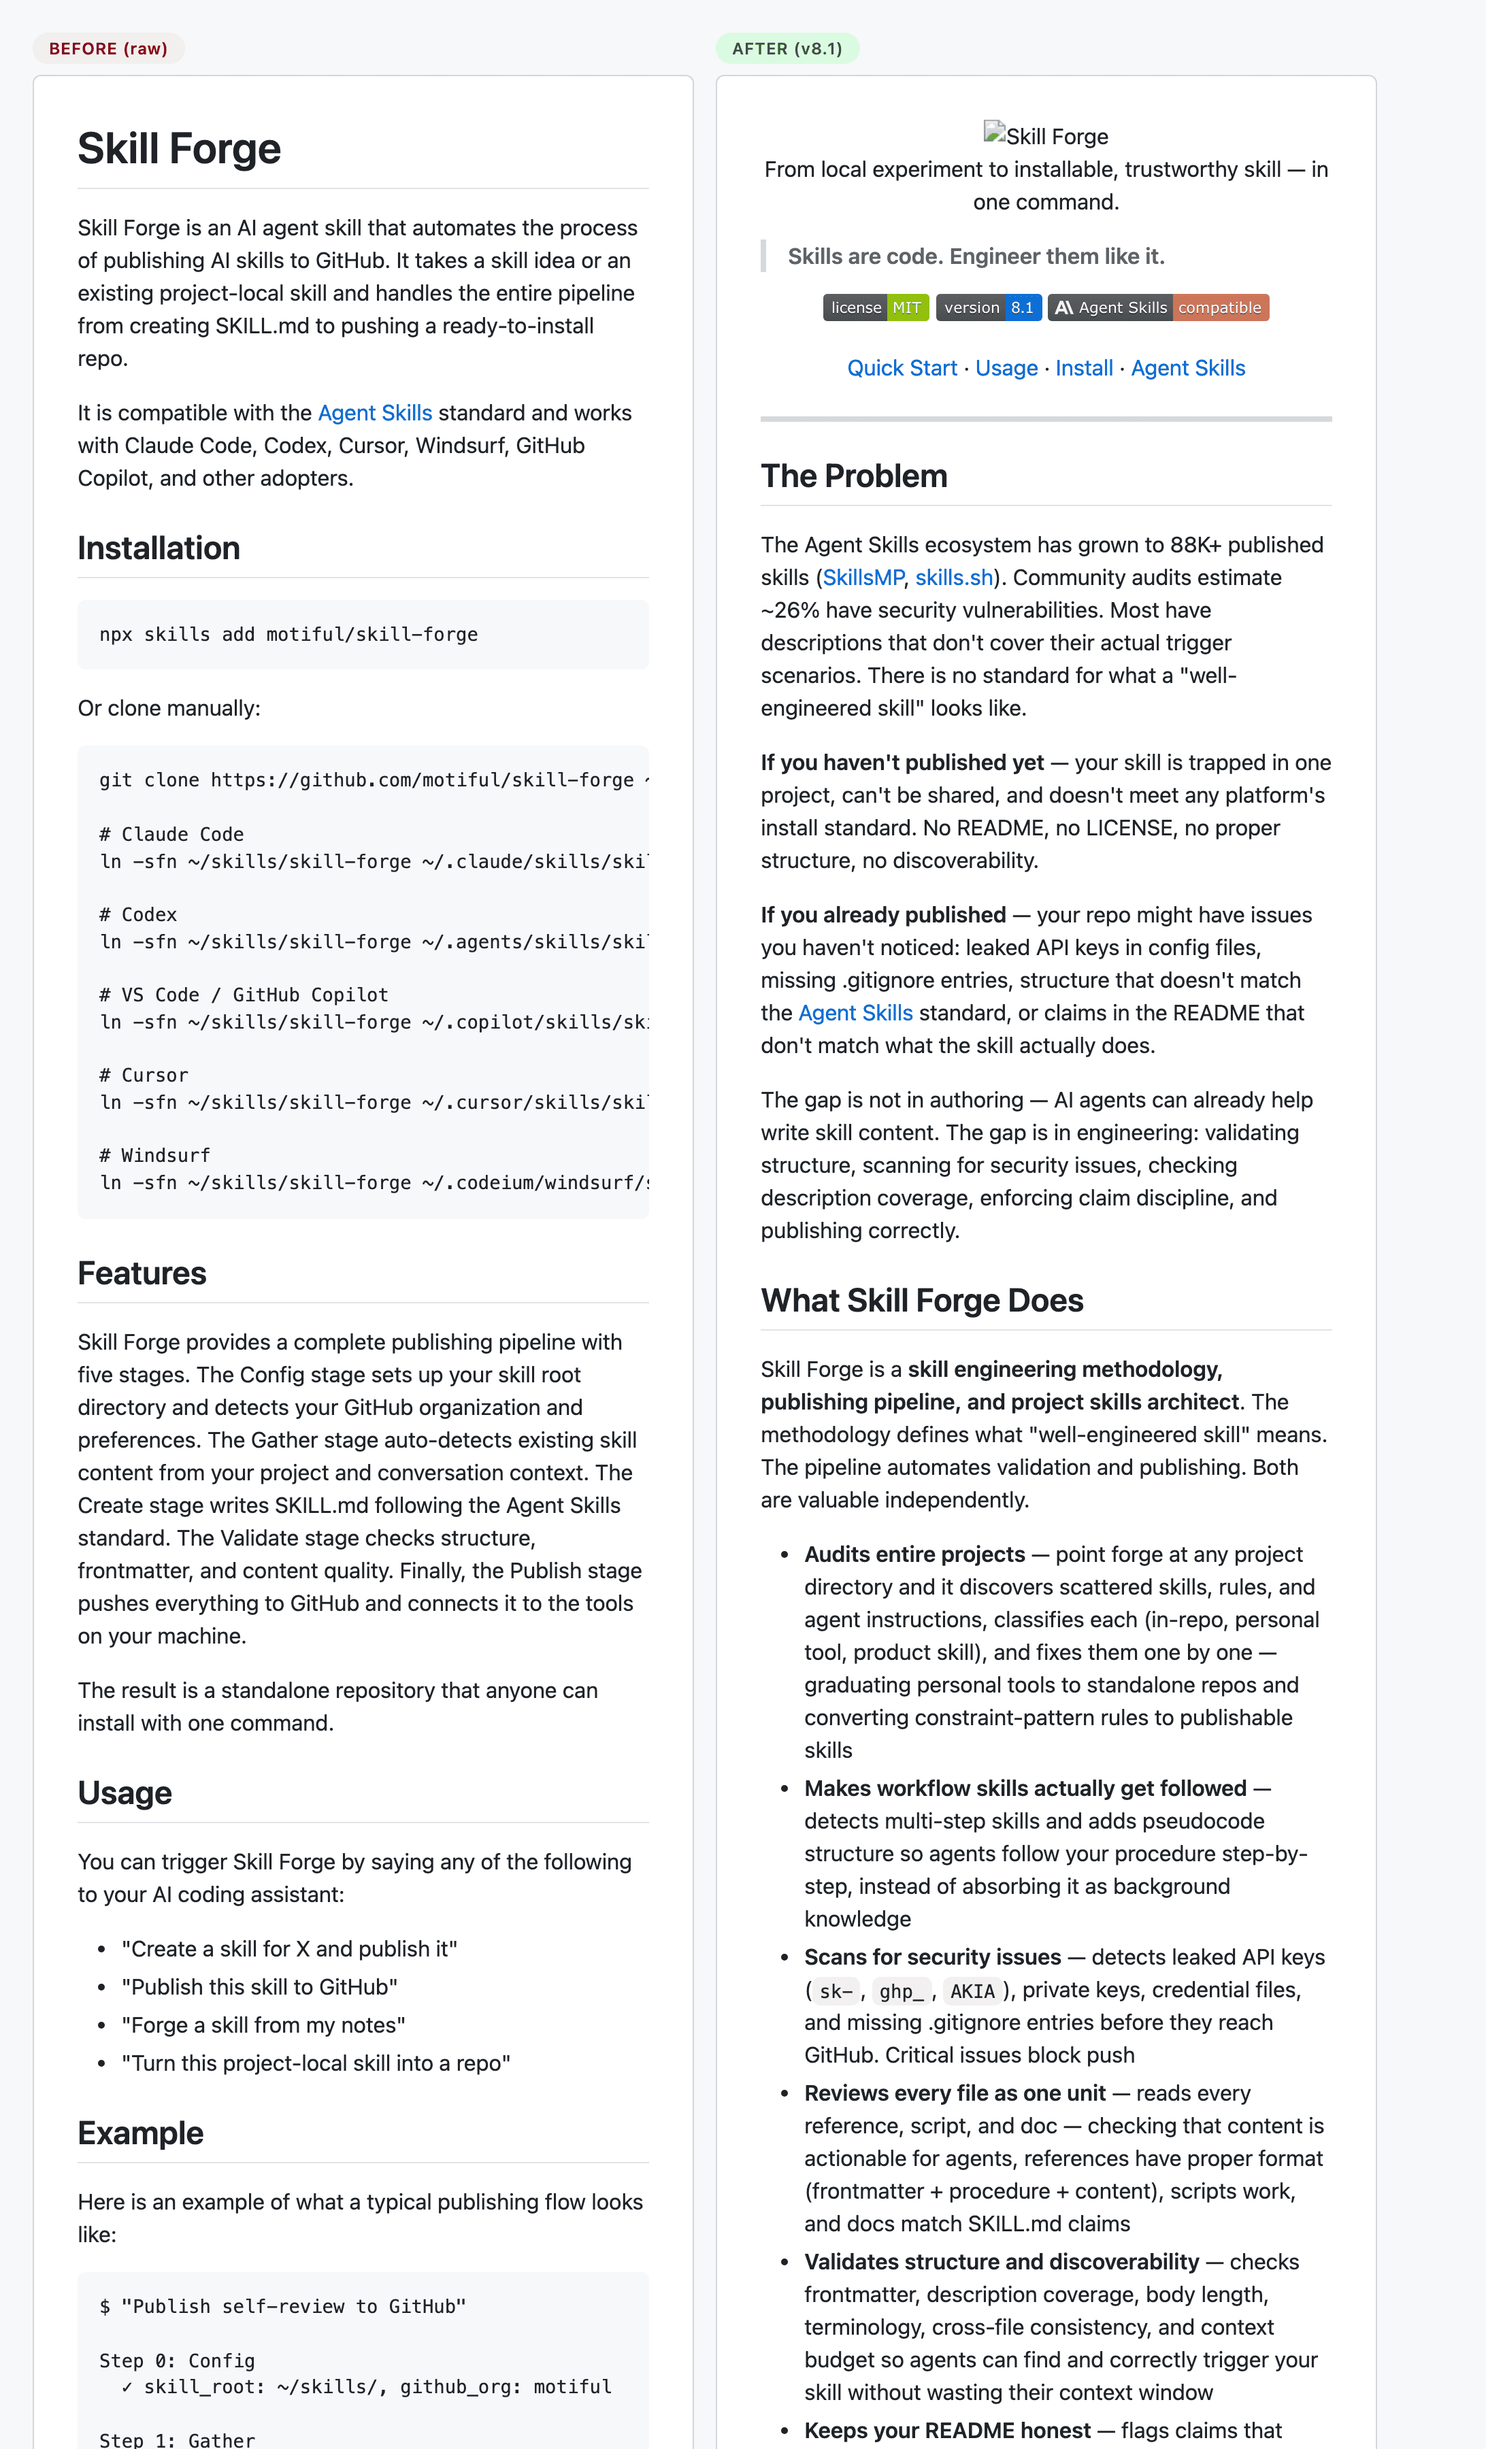
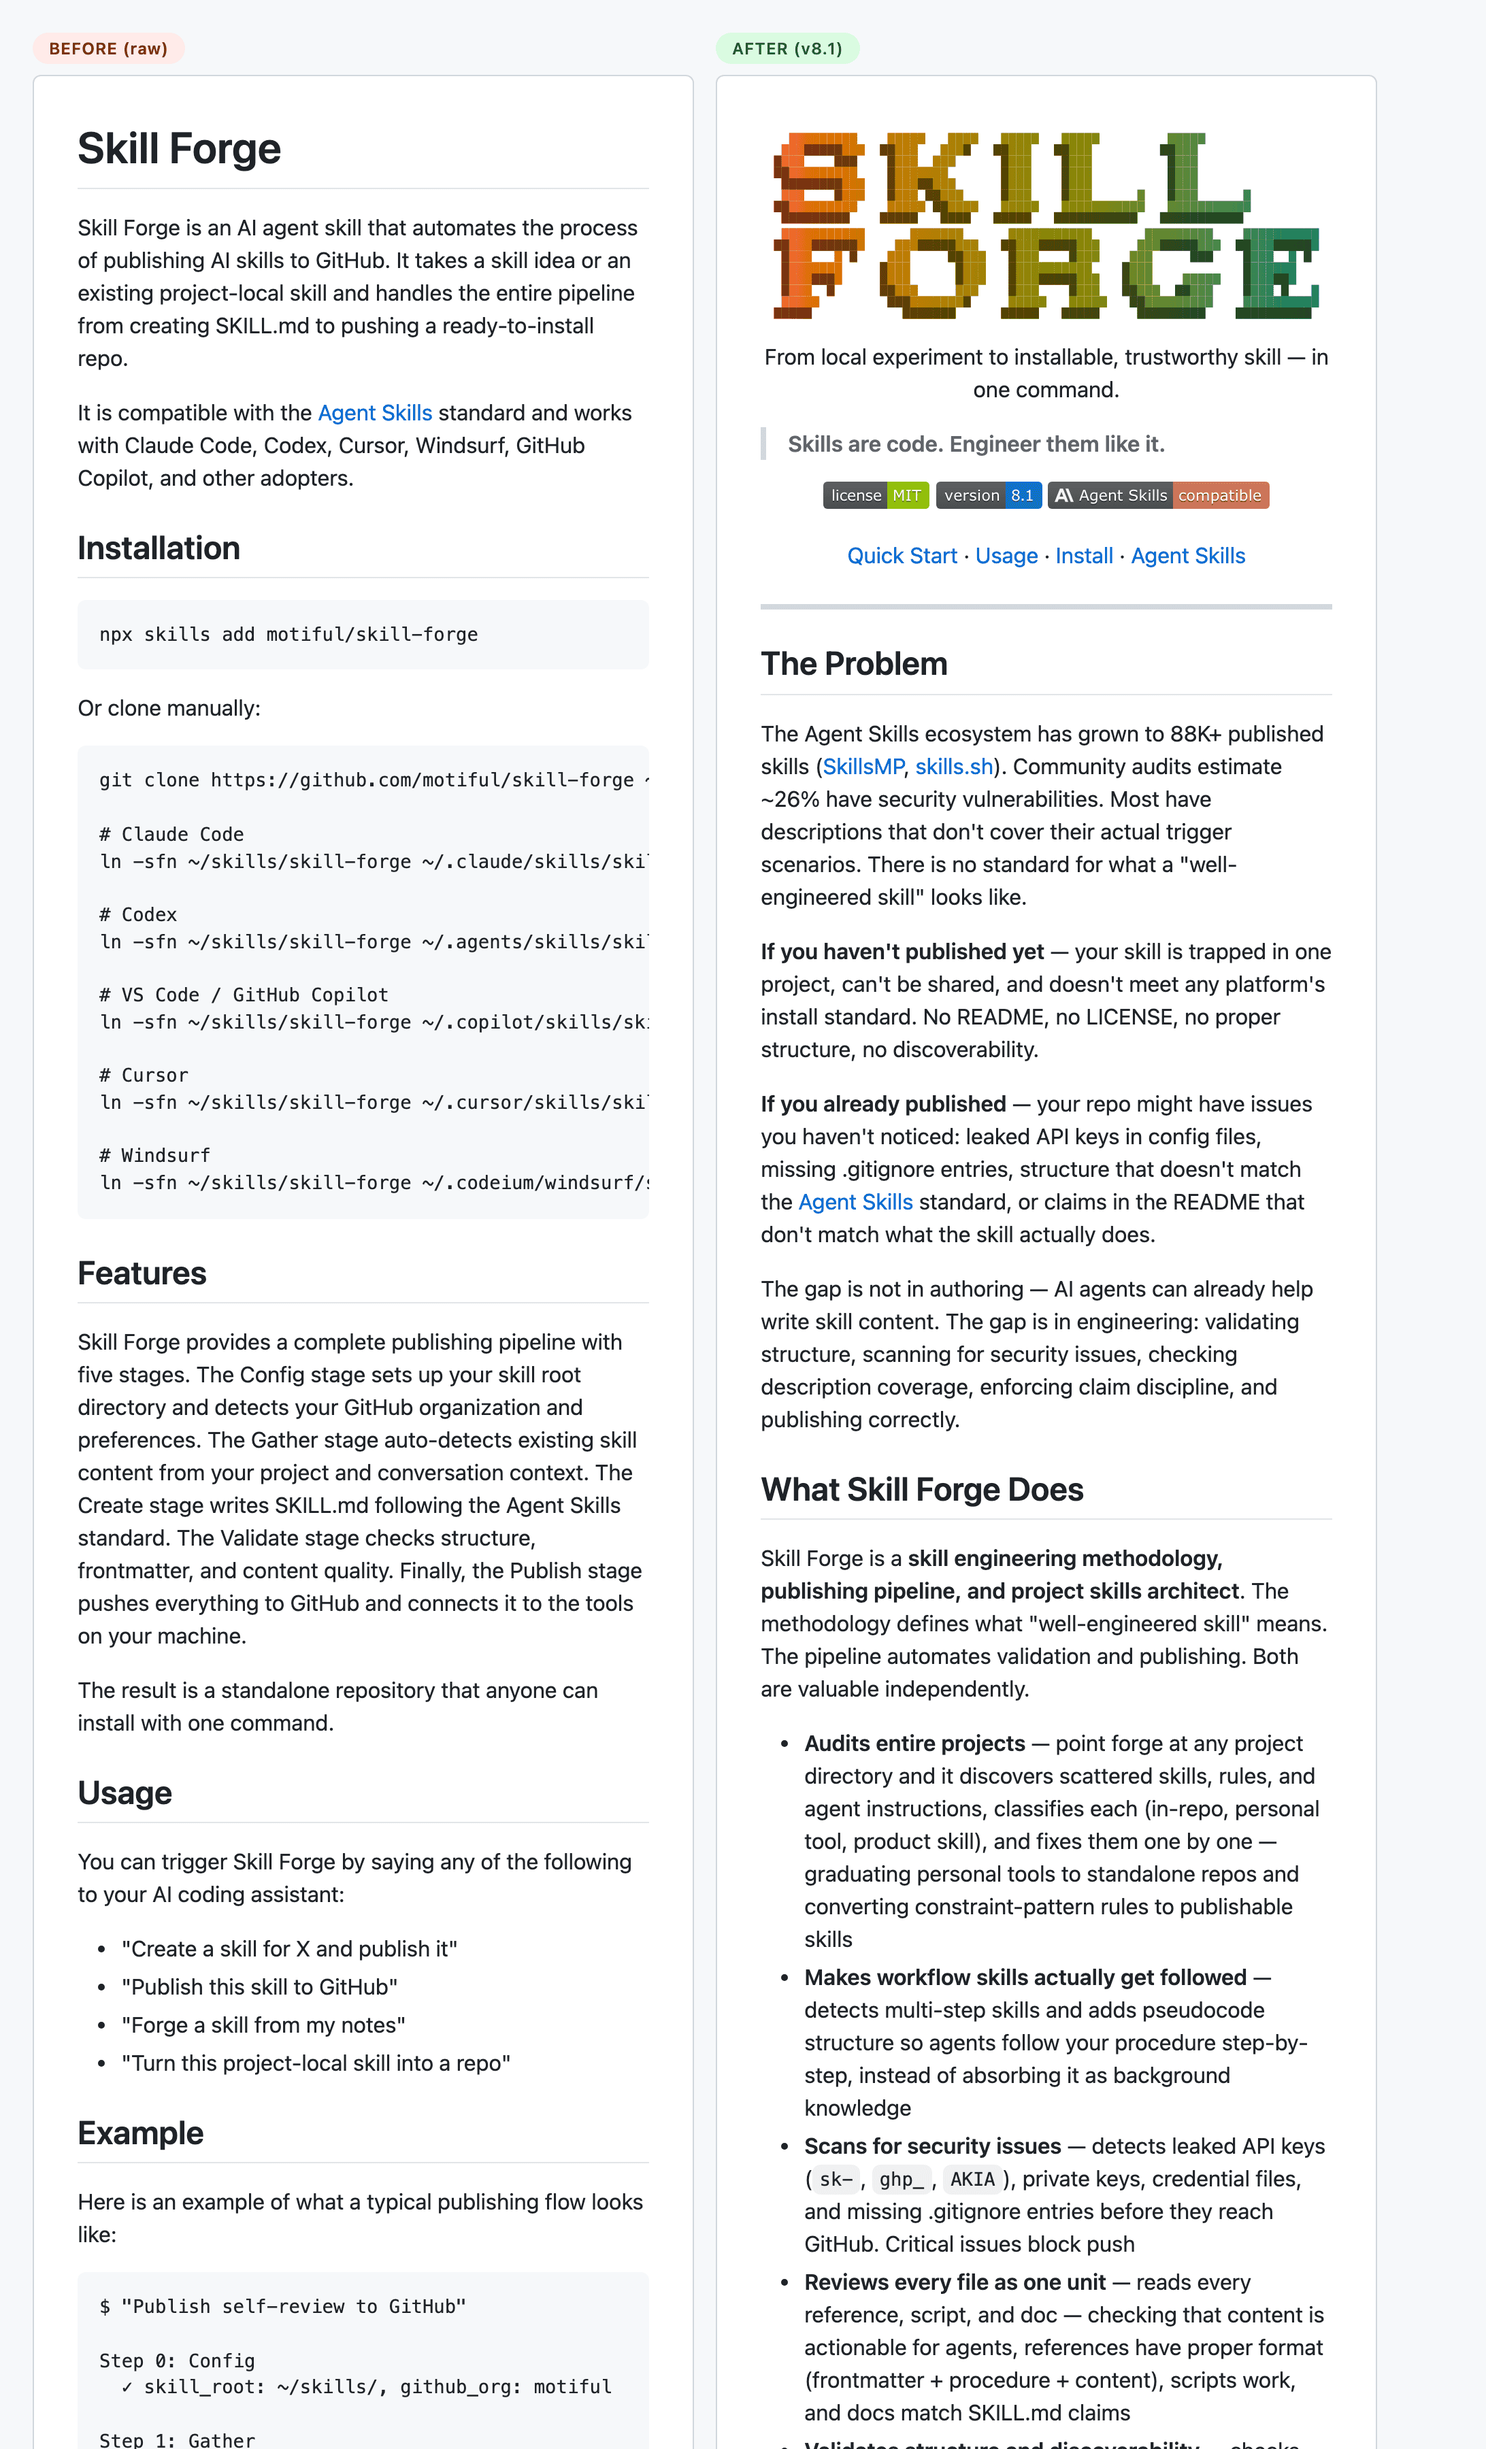
fix: regenerate comparison image with correct path resolution
The After markdown must be read from its original repo so
resolveLocalPaths can find .github/logo-*.svg. Copying to /tmp/
broke image loading.

Added image path resolution constraint to maintenance-rules
and references/comparison-screenshots.md.

Changed region(s): [[0.4982, 0.0311, 0.9029, 1.0]]

diff --git a/.claude/skills/maintenance-rules/SKILL.md b/.claude/skills/maintenance-rules/SKILL.md
@@ -26,6 +26,7 @@ if change proposed:
 - MUST NOT push SKILL.md body over 500 lines (currently 487)
 - MUST keep quality checklist item count consistent across: SKILL.md body, `references/quality-checklist.md`, README features, `docs/case-study-skill-forge.md` scoring tables. When checklist changes, update all four
 - MUST regenerate `docs/` images when the content they illustrate changes. Specifically: `docs/skill-forge-comparison.png` must match `docs/case-study-skill-forge.md` — regenerate via `node scripts/generate-comparison.mjs` when the case study's Before or After source changes
+- MUST use the After markdown from its original repo location when generating comparison screenshots — `resolveLocalPaths` resolves `src`/`srcset` relative to the markdown file's directory. Copying to `/tmp/` breaks image resolution (e.g., `.github/logo-dark.svg` becomes `/tmp/.github/logo-dark.svg`). Correct: `--after /path/to/original/repo/README.md`
 - MUST keep templates (`assets/universal-readme.md`, `assets/skill-readme.md`) aligned with current methodology. When SKILL.md rules change (e.g., section ordering, `<details>` policy, Checkout Test criteria), update templates to match
 - MUST keep SKILL.md ↔ README ↔ references terminology consistent
 - MUST add References table entry when adding new reference files

diff --git a/references/comparison-screenshots.md b/references/comparison-screenshots.md
@@ -71,6 +71,17 @@ node scripts/generate-comparison.mjs \
   --output docs/<project>-comparison-full.png --mode stacked
 ```
 
+## Image Path Resolution
+
+The comparison renderer resolves relative `src` and `srcset` paths using the markdown file's parent directory as `baseDir`. This means:
+
+- **Always use the After markdown from its original repo** — if the After README references `.github/logo.svg`, the file must exist relative to the markdown's location
+- **Never copy the After to `/tmp/` or another directory** — relative image paths will break (e.g., `.github/logo-dark.svg` resolves to `/tmp/.github/logo-dark.svg`)
+- **The Before file can be anywhere** — raw READMEs typically have no image references
+
+Correct: `--after /path/to/original/repo/README.md`
+Wrong: `--after /tmp/copied-readme.md`
+
 ## File Naming & Placement
 
 - **Output to `docs/`**, not `examples/` (comparison images support documentation, not showcase).
